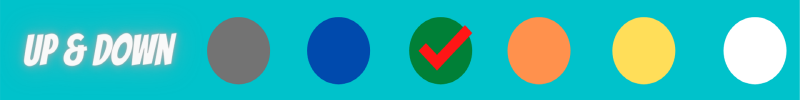
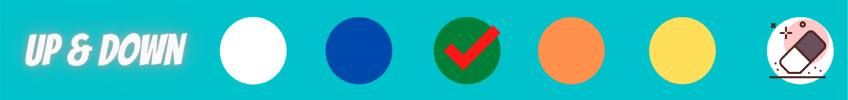
VirtualPainter update

Changed region(s): [[0.25, 0.15, 0.3438, 0.87], [0.9062, 0.18, 1.0, 0.81]]

diff --git a/VirtualPainter.py b/VirtualPainter.py
@@ -5,9 +5,14 @@ import time
 import os
 import HandTrackingModule as htm
 
+###################################
+brushThickness = 15
+eraserThickness = 50
+###################################
+
 folderPath = "Header"
 myList = os.listdir(folderPath)
-print(myList)
+# print(myList)
 
 overlayList =[]
 
@@ -16,19 +21,27 @@ for imPath in myList:
     overlayList.append(image)
 # print(len(overlayList))
 
-header = overlayList[0]
-drawColor = (50, 50, 50)
+header = overlayList[0]\
+
+# default color
+drawColor = (230, 230, 230)
 
 cap = cv2.VideoCapture(0, cv2.CAP_DSHOW)
+
+# cap = cv2.VideoCapture(0)
 cap.set(3, 800)
 cap.set(4, 600)
 
 detector = htm.handDetector(detectionCon=0.85)
+xp, yp = 0, 0
+imgCanvas = np.zeros((480, 848, 3), np.uint8)
+imgInv = np.zeros((480, 848, 3), np.uint8)
 
 while True:
 
     # 1. Import image
     success, img = cap.read()
+    # print(img.shape)
     img = cv2.flip(img, 1)
 
     # 2. Find Hand Landmarks
@@ -48,17 +61,18 @@ while True:
 
         # 4. If Selection Mode - Two fingers are up
         if fingers[1] and fingers[2]:
+            xp, yp = 0, 0
             print("Selection Mode")
             # Checking for the click
             if y1 < 100:
-                # Dark Gray
-                if 150<x1<200:
+                # Dark Gray -> while
+                if 200<x1<250:
                     header = overlayList[0]
-                    drawColor = (100, 100, 100)
+                    drawColor = (230, 230, 230)
                 # Deep Blue
-                elif 300<x1<350:
+                elif 325<x1<375:
                     header = overlayList[1]
-                    drawColor = (111, 6, 6)
+                    drawColor = (122, 6, 6)
                 # Deep Green
                 elif 400<x1<450:
                     header = overlayList[2]
@@ -72,7 +86,7 @@ while True:
                     header = overlayList[4]
                     drawColor = (0, 255, 255)
                 # Eraser 
-                elif 700<x1<800:
+                elif 725<x1<840:
                     header = overlayList[5]
                     drawColor = (255, 255, 255)
                 
@@ -80,12 +94,36 @@ while True:
 
         # 5. If Drawing Mode - Index finger is up
         if fingers[1] and fingers[2] == False:
-            cv2.circle(img, (x1, y1), 15, drawColor, cv2.FILLED)
             print("Drawing Mode")
+            if xp == 0 and yp == 0:
+                xp, yp = x1, y1
+
+            if drawColor == (255,255,255):
+                cv2.line(img, (xp, yp), (x1,y1), (0,0,0), eraserThickness)
+                cv2.line(imgCanvas, (xp, yp), (x1,y1), (0,0,0), eraserThickness)
+                cv2.circle(img, (x1, y1), int(eraserThickness/2)+2, (230,230,230), cv2.FILLED)
+
+            else:
+                cv2.circle(img, (x1, y1), 15, drawColor, cv2.FILLED)
+                cv2.line(img, (xp, yp), (x1,y1), drawColor, brushThickness)
+                cv2.line(imgCanvas, (xp, yp), (x1,y1), drawColor, brushThickness)
+
+            xp, yp = x1, y1
+
+    imgGray = cv2.cvtColor(imgCanvas, cv2.COLOR_BGR2GRAY)
+    _, imgInv = cv2.threshold(imgGray, 10, 255, cv2.THRESH_BINARY_INV)
+    imgInv = cv2.cvtColor(imgInv, cv2.COLOR_GRAY2BGR)
+    img = cv2.bitwise_and(img, imgInv)
+    img = cv2.bitwise_or(img, imgCanvas)
+
 
     # Setting the header image
-    img[0:100, 0:800] = header
+    img[0:100, 0:848] = header
+    # blend img
+    # img = cv2.addWeighted(img, 0.5, imgCanvas, 0.5, 0)
     cv2.imshow("Image", img)
+    # cv2.imshow("Canvas", imgCanvas)
+    # cv2.imshow("ImgInv", imgInv)
 
     if cv2.waitKey(1) & 0xFF == 27:
         break
